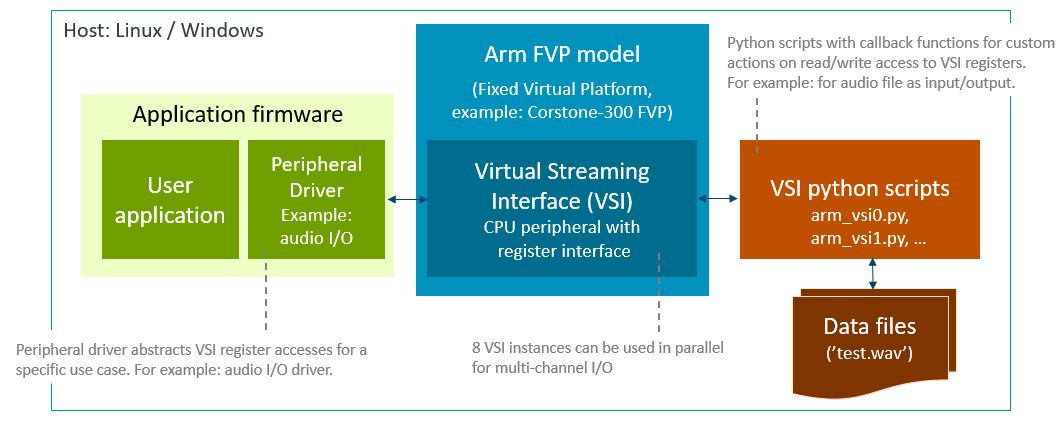
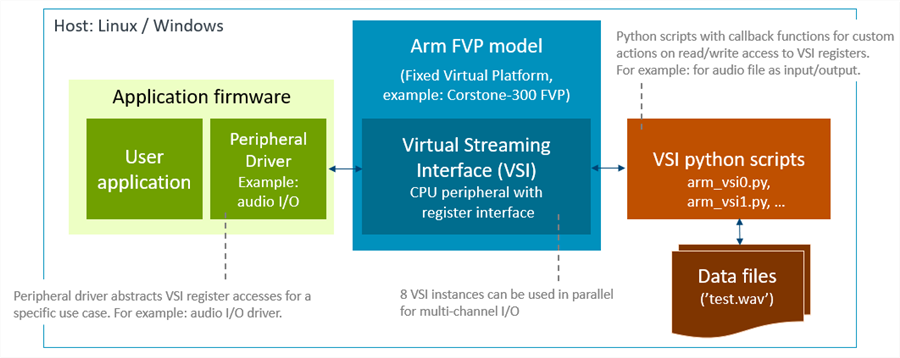
Adjusting picture size

diff --git a/DoxyGen/examples/src/aws_mqtt.md b/DoxyGen/examples/src/aws_mqtt.md
@@ -1,5 +1,7 @@
 # AWS MQTT Example {#aws_mqtt}
 
+[comment]:[TOC]
+
 This example is based on [AWS coreMQTT mutual authentication demo](https://docs.aws.amazon.com/freertos/latest/userguide/mqtt-demo-ma.html) and demonstrates how to use cloud-connectivity on Arm Virtual Hardware (AVH) via [VSocket interface](../../simulation/html/group__arm__vsocket.html), and how to verify such communication with Continuous Integration (CI) workflows. The project is maintained in the GitHub repository [**github.com/ARM-software/AVH-AWS_MQTT_Demo**](https://github.com/ARM-software/AVH-AWS_MQTT_Demo) that also contains additional description of the example.
 
 ## Overview {#aws_mqtt_overview}

diff --git a/DoxyGen/examples/src/GetStarted.md b/DoxyGen/examples/src/GetStarted.md
@@ -1,6 +1,6 @@
 # Get Started Example {#GetStarted}
 
-[TOC]
+[comment]:[TOC]
 
 GetStarted example demonstrates how to setup a Continuous Integration (CI) workflow for testing and debugging embedded applications using Arm Virtual Hardware (AVH). The project is maintained in the GitHub repository [**github.com/ARM-software/AVH-GetStarted**](https://github.com/ARM-software/AVH-GetStarted/) that also contains detailed description of the example.
 
